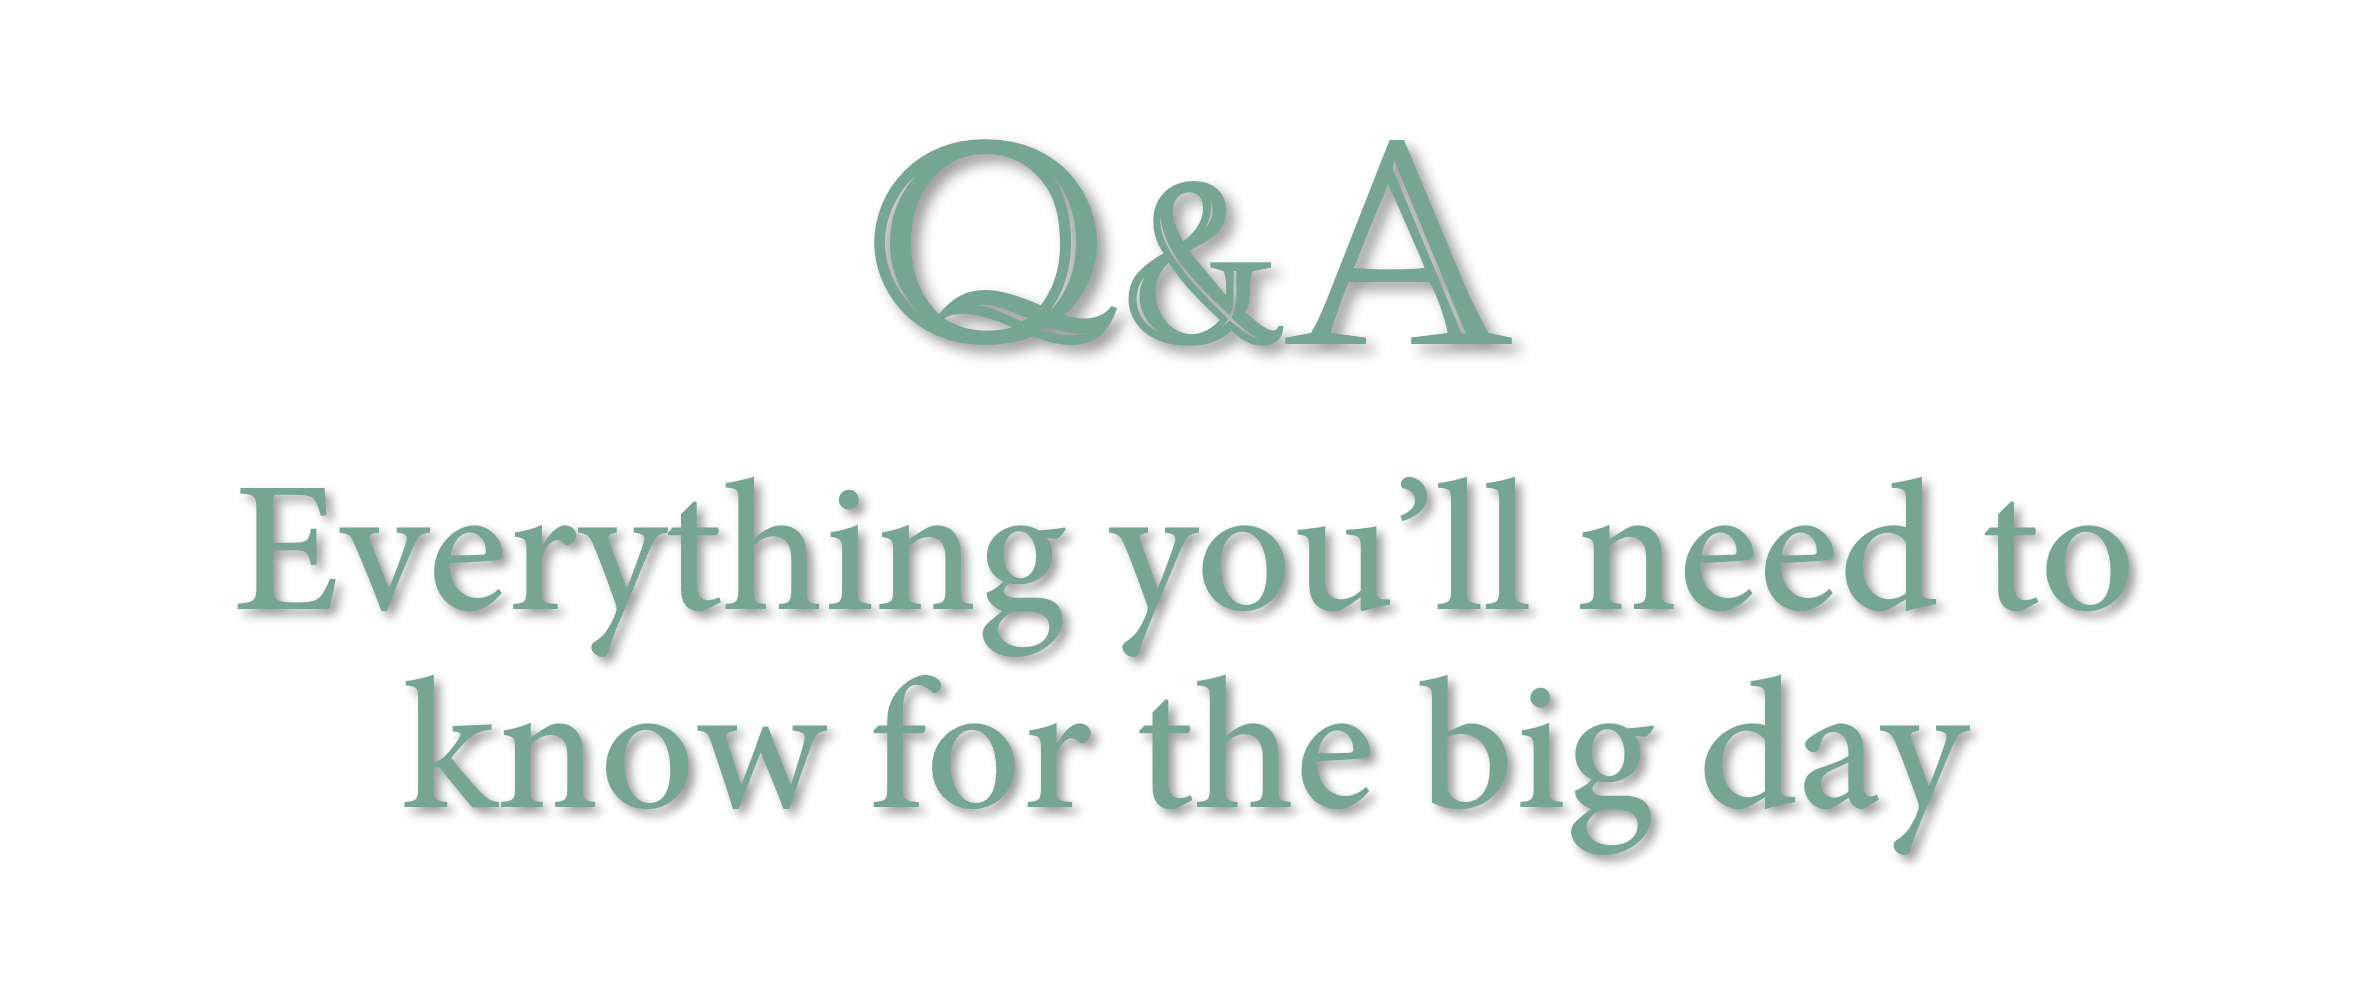
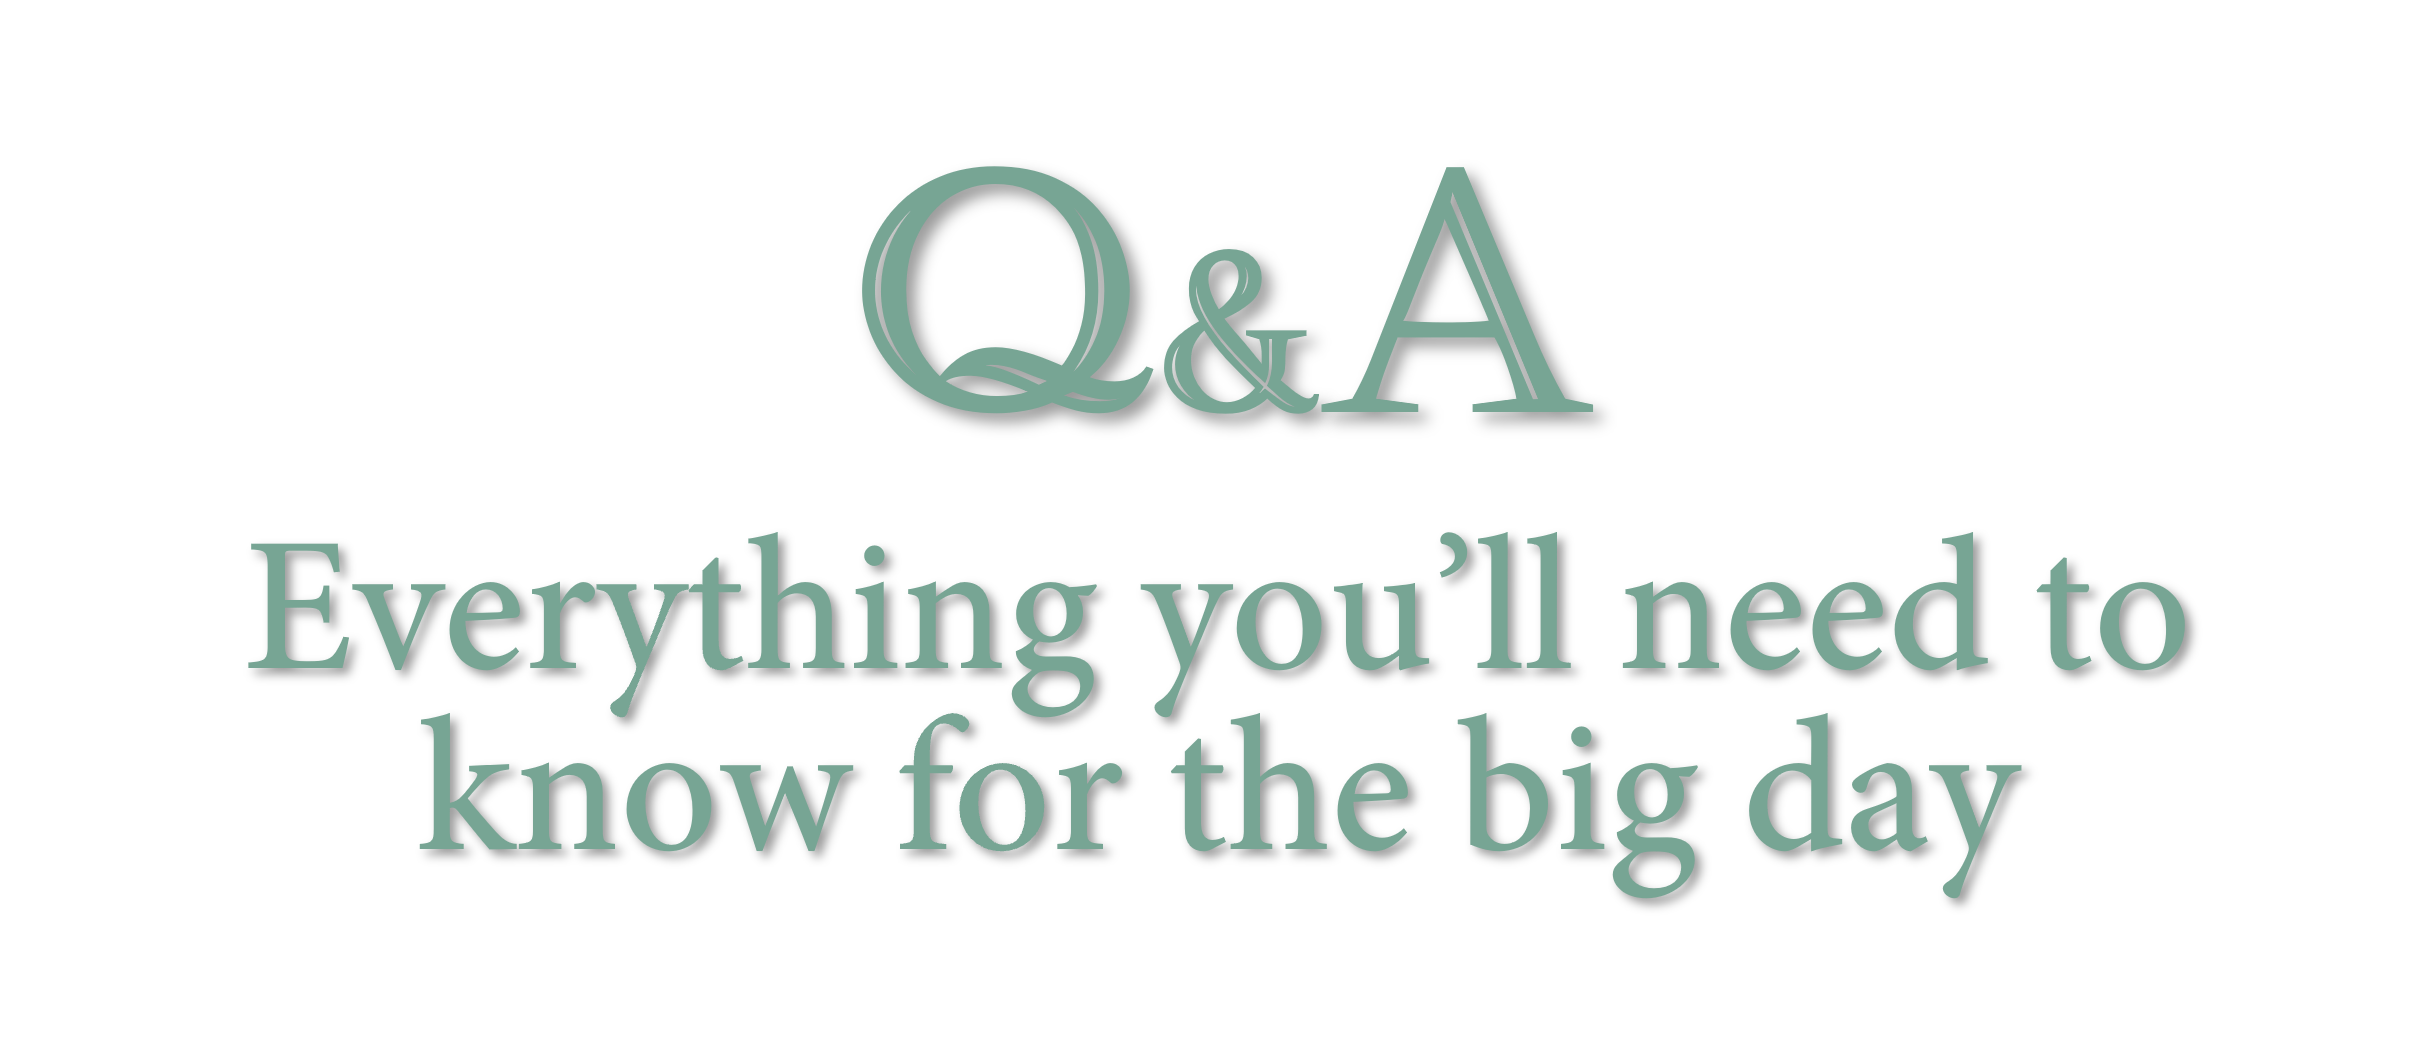
standardized all png title sizes and standardized text across pages; timeline improvements

Changed region(s): [[0.0937, 0.4678, 0.9059, 0.8732], [0.3436, 0.1247, 0.656, 0.4366]]

diff --git a/timeline_of_events.html b/timeline_of_events.html
@@ -64,37 +64,38 @@
                         <div id="content">
                             <ul class="timeline">
                                 <li class="event" data-date="4:00 PM - 5:00 PM">
-                                    <h3>Guest Arrival and Mingle Hour</h3>
-                                    <p><i>Drinks, photo booth, games, and other fun activities.</i></p>
+                                    <h3>Guest Arrival & Mingle Hour</h3>
+                                    <h1><i>Drinks, photo booth, games, and other fun activities.</i></h1>
                                 </li>
                                 <li class="event" data-date="5:00 PM - 5:30 PM">
                                     <h3>Ceremony Doors Open & Guest Seating</h3>
-                                    <p><i>Final Seating call at 5:20 PM. <br>We kindly ask that you refrain from using your phones.</i></p>
+                                    <h1><i>Final Seating call at 5:20 PM. <br>We kindly ask that you do not use your phones 
+                                    during the ceremony.</i></h1>
                                 </li>
                                 <li class="event" data-date="5:30 PM - 6:15 PM">
                                     <h3>Wedding Ceremony</h3>
-                                    <p><i>The main event!</i></p>
+                                    <h1><i>The main event!</i></h1>
                                 </li>
                                 <li class="event" data-date="6:15 PM - 7:00 PM">
                                     <h3>Cocktail Hour</h3>
-                                    <p><i>A short photo break for the bride and groom. Feel free to grab drinks or a bite 
-                                    to eat prior to the reception.</i></p>
+                                    <h1><i>A short photo break for the bride and groom. Feel free to grab drinks or a bite 
+                                    to eat prior to the reception.</i></h1>
                                 </li>
                                 <li class="event" data-date="7:00 PM - 8:10 PM">
                                     <h3>Reception and Dinner</h3>
-                                    <p><i>Dances, speeches, and buffet-style dinner.</i></p>
+                                    <h1><i>Dances, speeches, and buffet-style dinner.</i></h1>
                                 </li>
                                 <li class="event" data-date="8:10 PM">
                                     <h3>Dance Floor Opens</h3>
-                                    <p><i>Let's dance!</i></p>
+                                    <h1><i>Let's dance!🕺💃</i></h1>
                                 </li>
                                 <li class="event" data-date="8:50 PM - 9:05 PM">
                                     <h3>Cake Cutting and Boquet Toss</h3>
-                                    <p><i>Something sweet for the evening.</i></p>
+                                    <h1><i>Something sweet for the evening.</i></h1>
                                 </li>
                                 <li class="event" data-date="10:45 PM - 11:00 PM">
                                     <h3>Last Song and Grand Exit</h3>
-                                    <p><i>A night well spent.</i></p>
+                                    <h1><i>A night well spent.</i></h1>
                                 </li>
                             </ul>
                         </div>

diff --git a/qna.html b/qna.html
@@ -55,7 +55,7 @@
         <div>
             <br>
             <div class="d-flex p-5" style="align-items: center; text-align: center; flex-direction: column">
-                <img class="png-min-main" src="images/titles/qna.png" style="align-self: center; width: 100%; height: auto;" id="qna"><br>
+                <img class="png-min" src="images/titles/qna.png" style="align-self: center; width: 100%; height: auto;" id="qna"><br>
                 <div class="d-flex hid card2 align-items-center" id="sec1">
                     <div style=" z-index: 1;">
                         <h1 class="display-6" style="color: rgb(119, 165, 148)"><b>Where Will the Wedding be Located?</b></h1> 
@@ -105,7 +105,7 @@
                             <br>
                     </div>
                 </div>  
-                <div class="tag section5 d-flex" id="sec6">
+                <div class="tag section6 d-flex" id="sec6">
                         <div style="z-index: 1; text-align: center;">
                         <h1 class="display-6" style="color: rgb(119, 165, 148)"><b>What If I Have Physical Limitations or Dietary Restrictions?</b></h1>
                         <h1 class="display-6" style="color: white;"><i>Let Us Know About Any Limitations When You RSVP.</i><br></h1> 

diff --git a/timeline.css b/timeline.css
@@ -7,7 +7,7 @@ body{margin-top:20px;}
     letter-spacing: 0.2px;
     position: relative;
     line-height: 1.4em;
-    font-size: 1.3em;
+    font-size: 1.2em;
     padding: 50px;
     list-style: none;
     text-align: left;
@@ -23,14 +23,14 @@ body{margin-top:20px;}
 }
 
 .timeline h1 {
-    font-weight: 300;
-    font-size: 1.4em;
+    font-weight: 150;
+    font-size: 1em;
     color: white;
 }
 
 .timeline h2,
 .timeline h3 {
-    font-weight: 600;
+    font-weight: 450;
     font-size: 1.2em;
     margin-bottom: 10px;
     color: rgb(119, 165, 148);
@@ -63,11 +63,11 @@ body{margin-top:20px;}
 }
 
 .timeline .event:before {
-    left: -270px;
+    left: -290px;
     content: attr(data-date);
     text-align: right;
-    font-weight: 200;
-    font-size: 1em;
+    font-weight: 450;
+    font-size: 1.2em;
     min-width: 120px;
 }
 

diff --git a/title_format.css b/title_format.css
@@ -49,28 +49,35 @@ img.png-min {
 img.png-min-main {
   min-width: 300px;
   min-height: auto; 
-  max-width: 850px;
+  max-width: 750px;
   max-height: auto; 
 }
 
 img.png-min-lrg {
-  min-width: 300px;
+  min-width: 200px;
   min-height: auto; 
-  max-width: 450px;
+  max-width: 350px;
   max-height: auto; 
 }
 
 /* Optional: stricter control on very small screens */
 @media (max-width: 576px) {
   img.png-min {
-    min-width: 50%;
+    min-width: 200px;
+    overflow-x: auto
+  }
+}
+
+@media (max-width: 576px) {
+  img.png-min-main {
+    min-width: 300px;
     overflow-x: auto
   }
 }
 
 @media (max-width: 576px) {
   img.png-min-lrg {
-    min-width: 120px;
+    min-width: 200px;
     overflow-x: auto
   }
 }

diff --git a/dress_code.html b/dress_code.html
@@ -55,7 +55,7 @@
         <div>
             <br><br>
             <div class="d-flex p-5" style="flex-direction: column;">
-                <img class="png-min-lrg" src="images/titles/dresscode.png" style="align-self: center; width: 100%; height: auto;" id="dresscode">
+                <img class="png-min" src="images/titles/dresscode.png" style="align-self: center; width: 100%; height: auto;" id="dresscode">
 
                     <h1 class="display-6" style="text-align: center; color: white;"></h1> 
                     <div style=" z-index: 1;">
